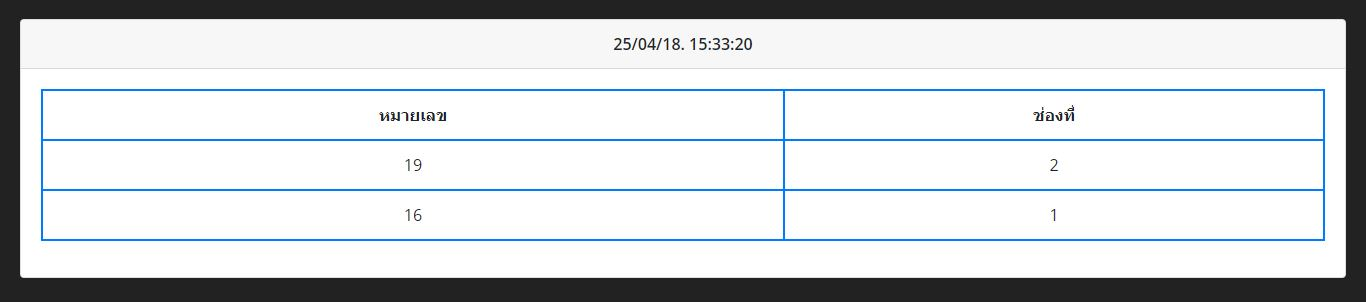
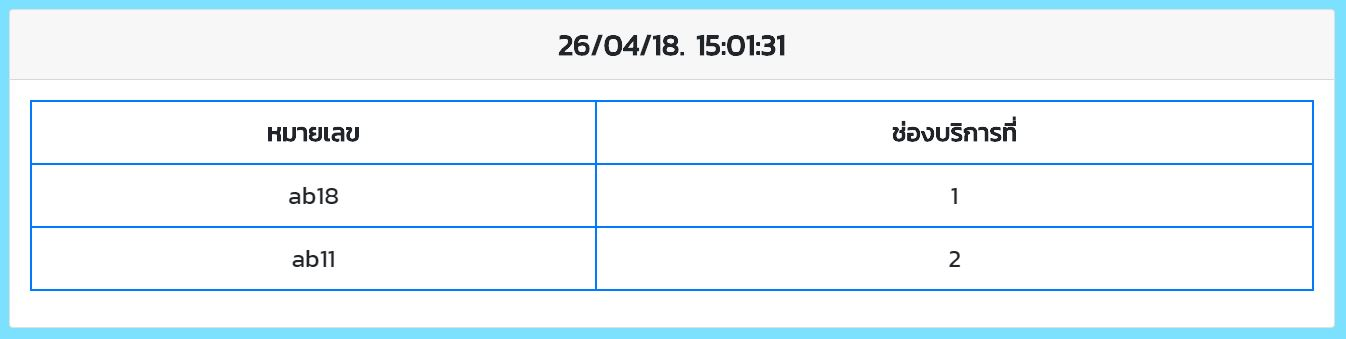
edit settings page

diff --git a/src/app/layout/settings/settings.component.html b/src/app/layout/settings/settings.component.html
@@ -43,6 +43,115 @@
             </div>
 
             <div class="row">
+              <div class="col-md-12">
+
+                <div class="table-responsive">
+                  <table class="table table-bordered text-center">
+                    <tbody>
+
+                      <tr>
+                        <td scope="row" width="10%">
+                          <div class="checkbox">
+                            <input type="checkbox" id="logo" name="logo" ngModel="{{ statusLogo }}">
+                          </div>
+                        </td>
+                        <td>
+                          <label for="logo">
+                            Logo
+                          </label>
+                        </td>
+                        <td>
+                          {{ logo }}
+                        </td>
+                      </tr>
+
+                      <tr>
+                        <td scope="row" width="10%">
+                        </td>
+                        <td>
+                          {{ queueFormat }}1
+                        </td>
+                        <td>
+                          {{ queueFormat }}1
+                        </td>
+                      </tr>
+
+                      <tr>
+                        <td scope="row" width="10%">
+                          <div class="checkbox">
+                            <input type="checkbox" id="QR" name="QR" ngModel="{{ statusQR }}">
+                          </div>
+                        </td>
+                        <td>
+                          <label for="QR">
+                            QR Code
+                          </label>
+                        </td>
+                        <td>
+                          {{ QR }}
+                        </td>
+                      </tr>
+
+                      <tr>
+                        <td scope="row" width="10%">
+                        </td>
+                        <td>
+                          Ex. 24/04/18. 10:30:12
+                        </td>
+                        <td>
+                          Ex. 24/04/18. 10:30:12
+                        </td>
+                      </tr>
+
+                      <tr>
+                        <td scope="row" width="10%">
+                          <div class="checkbox">
+                            <input type="checkbox" id="wait" name="wait" ngModel="{{ statusWait }}">
+                          </div>
+                        </td>
+                        <td>
+                          <label for="wait">
+                            คิวที่รอ
+                          </label>
+                        </td>
+                        <td>
+                          {{ wait }}
+                        </td>
+                      </tr>
+
+                      <tr>
+                        <td scope="row" width="10%">
+                          <div class="checkbox">
+                            <input type="checkbox" id="footer" name="footer" ngModel="{{ statusFooter }}">
+                          </div>
+                        </td>
+                        <td>
+                          <input type="text" class="form-control" name="footerInput" ngModel="{{ footer }}">
+                        </td>
+                        <td>
+                          {{ footer }}
+                        </td>
+                      </tr>
+
+                    </tbody>
+                  </table>
+                </div>
+
+              </div>
+              <div class="col-md-6">
+
+                <div class="col-md-12 col-5 text-center">
+                  <div class="form-group">
+                  </div>
+                </div>
+
+              </div>
+            </div>
+
+
+
+<!-- 
+            <div class="row">
               <div class="col-md-1 col-1 text-right">
                 <div class="checkbox">
                   <input type="checkbox" id="logo" name="logo" ngModel="{{ statusLogo }}">
@@ -146,7 +255,7 @@
                   {{ footer }}
                 </div>
               </div>
-            </div>
+            </div> -->
 
             <div class="row">
               <div class="col-md-12 text-right">

diff --git a/src/app/staffScreen/staffScreen.component.html b/src/app/staffScreen/staffScreen.component.html
@@ -9,10 +9,10 @@
 
 
           <div class="row">
-            <div class="col-md-6 col-6 text-right" style="font-size: 30px; font-weight: bold">
+            <div class="col-md-6 col-7 text-right" style="font-size: 30px; font-weight: bold">
               ช่องบริการที่ {{ nameServiceBox }}.
             </div>
-            <div class="col-md-6 col-6 text-left" style="font-size: 30px">
+            <div class="col-md-6 col-5 text-left" style="font-size: 30px">
               {{ time }}
             </div>
           </div>
@@ -26,7 +26,7 @@
                 <div class="col-md-6 col-7 text-right" style="font-size: 25px; font-weight: bold">
                   คิวปัจจุบัน :
                 </div>
-                <div class="col-md-6 col-5 text-center" style="font-size: 25px; color: green">
+                <div class="col-md-6 col-5 text-center" style="font-size: 25px">
                   {{ queueFormat }}{{ currentQueue }}
                 </div>
               </div>
@@ -42,7 +42,7 @@
                 <div class="col-md-6 col-7 text-right" style="font-size: 25px; font-weight: bold">
                   คิวในระบบ :
                 </div>
-                <div class="col-md-6 col-5 text-center" style="font-size: 25px; color: green">
+                <div class="col-md-6 col-5 text-center" style="font-size: 25px">
                   {{ queueAmount }}
                 </div>
               </div>
@@ -52,7 +52,9 @@
 
               <div class="row">
                 <div class="col-md-12">
-                  <button class="btn btn-primary btn-lg btn-block" (click)="callQueue()">เรียกคิวใหม่</button>
+                  <button class="btn btn-primary btn-lg btn-block" (click)="callQueue()">
+                    <i class="fa fa-hand-pointer-o" aria-hidden="true"></i>&nbsp;เรียกคิวใหม่
+                  </button>
                 </div>
               </div>
 
@@ -94,7 +96,7 @@
             <div class="col-md-2 col-5 text-right" style="font-weight: bold">
               คิวปัจจุบัน
             </div>
-            <div class="col-md-2 col-7 text-center" style="font-size: 25px; color: green">
+            <div class="col-md-2 col-7 text-center" style="font-size: 25px">
               {{ queueFormat }}{{ currentQueue }}
             </div>
           </div>

diff --git a/src/app/userScreen/userScreen.component.html b/src/app/userScreen/userScreen.component.html
@@ -7,7 +7,7 @@
       <div class="card">
         <div class="card-header">
           <div class="row">
-            <div class="col-md-12 text-center" style="font-weight: bold">
+            <div class="col-md-12 text-center" style="font-size: 30px; font-weight: bold">
               {{ date }}. {{ time }}
             </div>
           </div>
@@ -15,7 +15,7 @@
         <div class="card-body">
 
           <div class="table-responsive">
-            <table class="table table-bordered">
+            <table class="table table-bordered" style="font-size: 25px">
               <thead>
                 <tr>
                   <th scope="row">หมายเลข</th>

diff --git a/src/index.html b/src/index.html
@@ -7,7 +7,6 @@
 
         <meta name="viewport" content="width=device-width, initial-scale=1">
         <link rel="icon" type="image/x-icon" href="favicon.ico">
-        <link rel="stylesheet" href="https://maxcdn.bootstrapcdn.com/bootstrap/4.0.0/css/bootstrap.min.css" integrity="sha384-Gn5384xqQ1aoWXA+058RXPxPg6fy4IWvTNh0E263XmFcJlSAwiGgFAW/dAiS6JXm" crossorigin="anonymous">
         <link href="https://fonts.googleapis.com/css?family=Kanit" rel="stylesheet">
     </head>
     <body style="font-family: 'Kanit', sans-serif;">

diff --git a/src/app/userScreen/userScreen.component.scss b/src/app/userScreen/userScreen.component.scss
@@ -1,4 +1,4 @@
-$topnav-background-color: #222;
+$topnav-background-color: #7BE1FF;
 .userScreen-page {
     position: absolute;
     top: 0;
